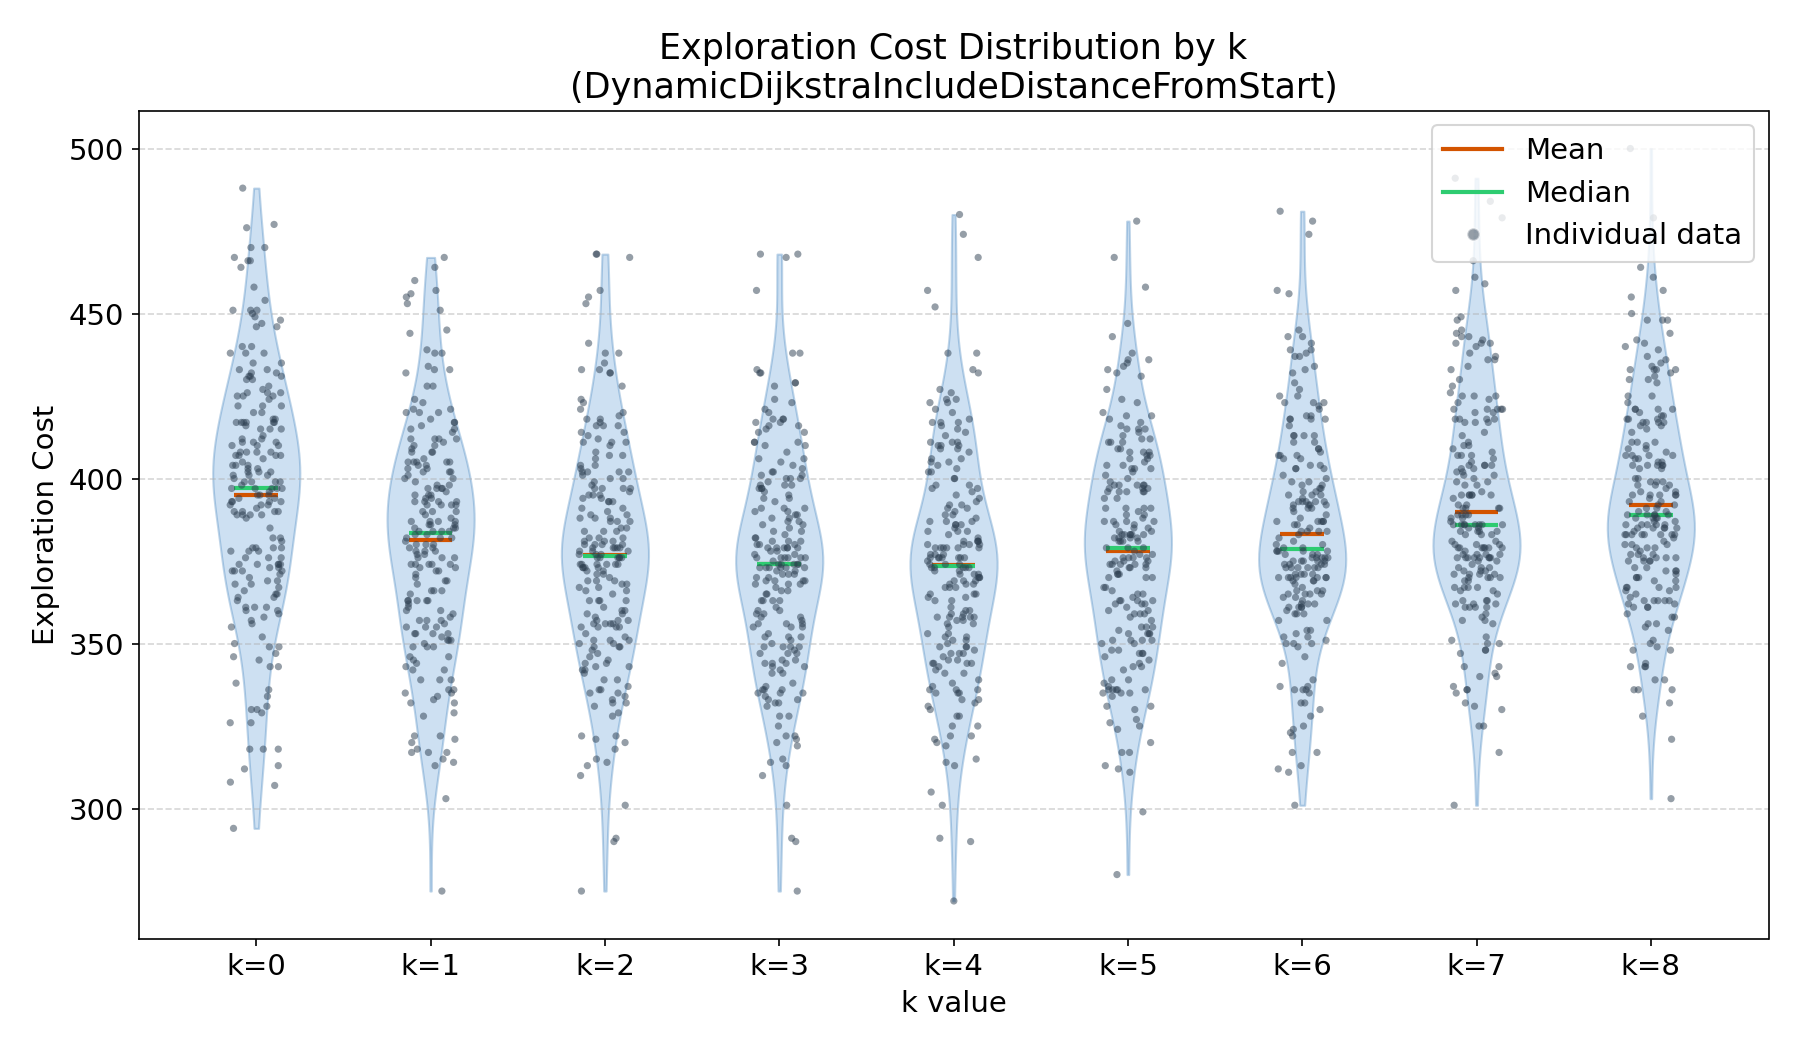
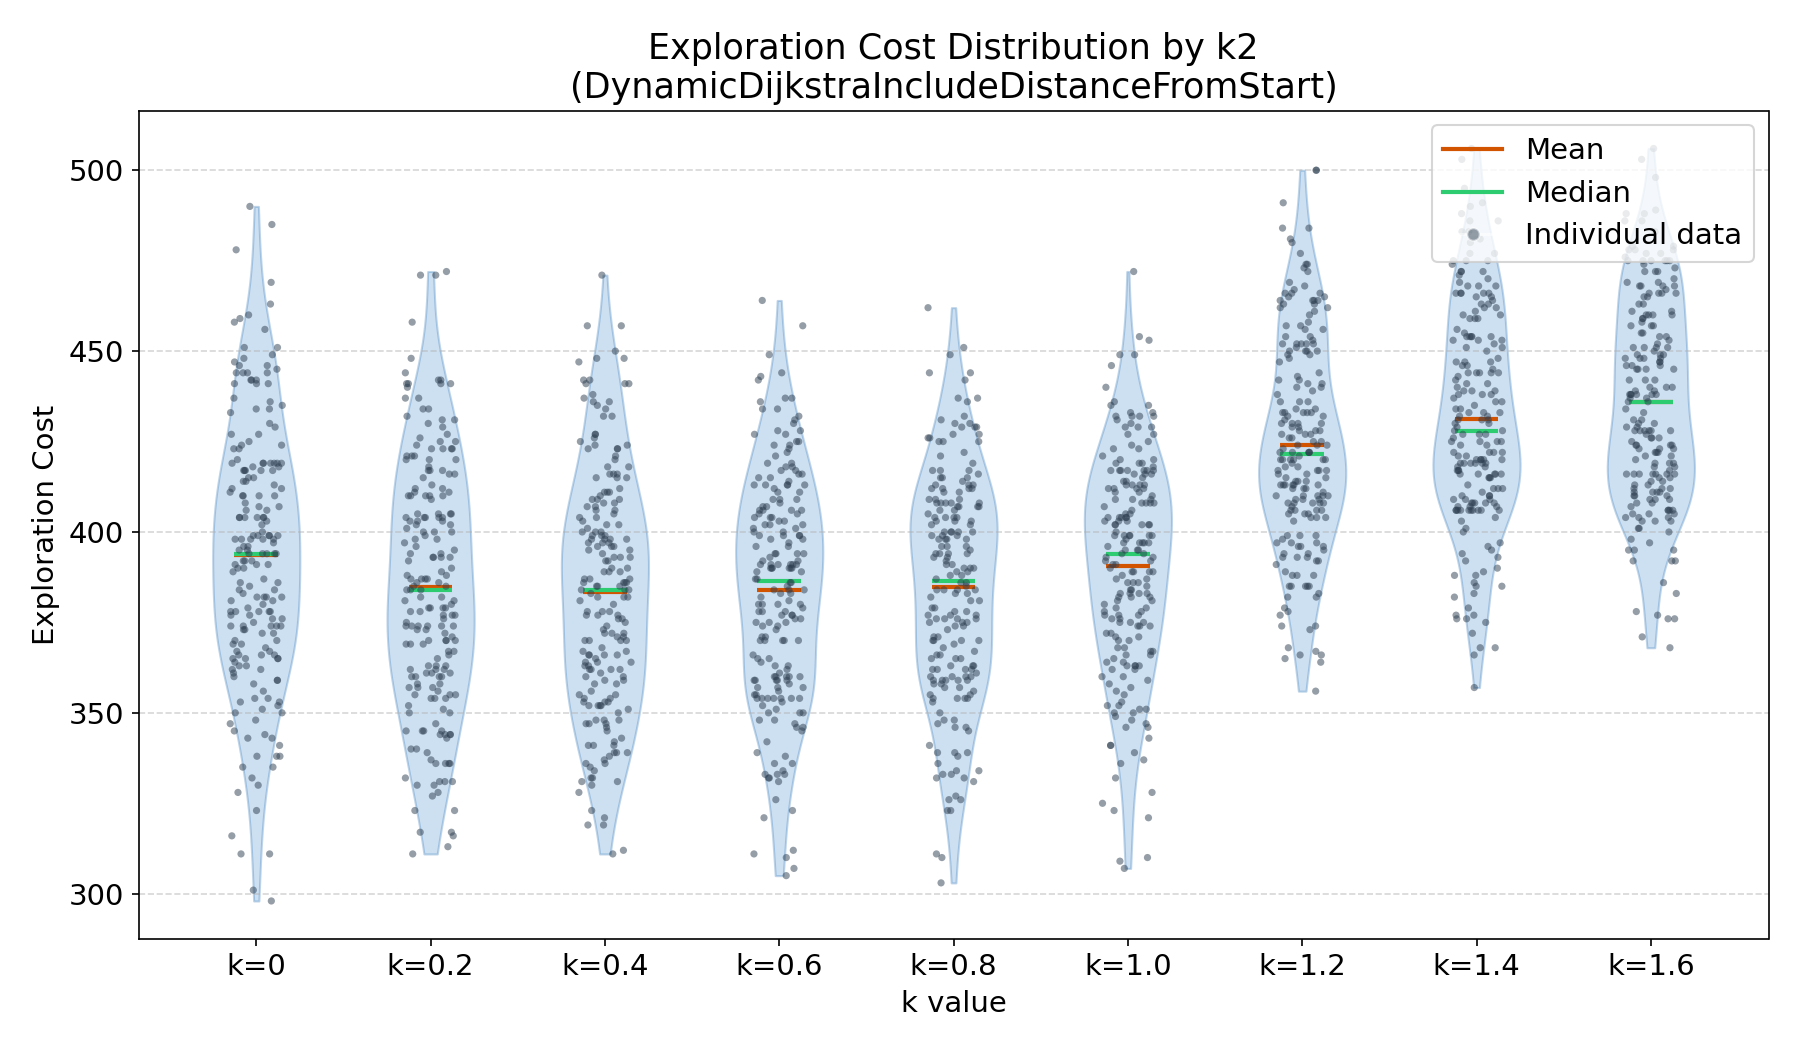
evaluate k2

diff --git a/tools/benchmark.py b/tools/benchmark.py
@@ -141,7 +141,7 @@ def plot_boxplot_variation_k(num_fields=200, k_values=[0.0, 0.2, 0.4, 0.6, 0.8, 
     print("Boxplot saved to k_variation_boxplot.png")
 
 
-def plot_violin_variation_k(num_fields=200, k_values=[0, 1, 2, 3, 4, 5, 6, 7,8]):
+def plot_violin_variation_k(num_fields=200, k_values=[0, 0.2, 0.4, 0.6, 0.8, 1.0, 1.2, 1.4,1.6]):
     if not os.path.exists("assesment_fields") or not os.listdir("assesment_fields"):
         generate_random_fields(0, num_fields)
         
@@ -158,7 +158,7 @@ def plot_violin_variation_k(num_fields=200, k_values=[0, 1, 2, 3, 4, 5, 6, 7,8])
             field.readJson(json_data)
             
             robot = RobotInterface(field)
-            strategy = DynamicDijkstraFarthestFirstStrategy(robot, k=k)
+            strategy = DynamicDijkstraFarthestFirstStrategy(robot, k=0,k2=k)
             while not strategy.execute_step():
                 pass
             costs_for_k.append(robot.run_cost)
@@ -195,7 +195,7 @@ def plot_violin_variation_k(num_fields=200, k_values=[0, 1, 2, 3, 4, 5, 6, 7,8])
     ax.set_xticklabels([f"k={k}" for k in k_values])
     ax.set_xlabel("k value")
     ax.set_ylabel("Exploration Cost")
-    ax.set_title("Exploration Cost Distribution by k\n(DynamicDijkstraIncludeDistanceFromStart)")
+    ax.set_title("Exploration Cost Distribution by k2\n(DynamicDijkstraIncludeDistanceFromStart)")
     ax.grid(True, axis='y', linestyle='--', alpha=0.5)
 
     # 凡例
@@ -213,14 +213,14 @@ def plot_violin_variation_k(num_fields=200, k_values=[0, 1, 2, 3, 4, 5, 6, 7,8])
     print("Violin plot saved to k_variation_violin.png")
 
 
-generate_random_fields(0, 200, 12, 6, 1)
+generate_random_fields(0, 200, 8, 8, 1)
 # generate_random_fields(100, 200, 8, 8, 1)
 # generate_random_fields(200, 300, 10, 10, 1)
 # generate_random_fields(300, 400, 12, 12, 1)
 # generate_random_fields(400, 500, 14, 14, 1)
 
 if __name__ == "__main__":
-    assess_fields(200) # Run small batch
-    plot_cost_comparison()
-    # plot_violin_variation_k(200)
+    # assess_fields(200) # Run small batch
+    # plot_cost_comparison()
+    plot_violin_variation_k(200)
     # plot_boxplot_variation_k()
